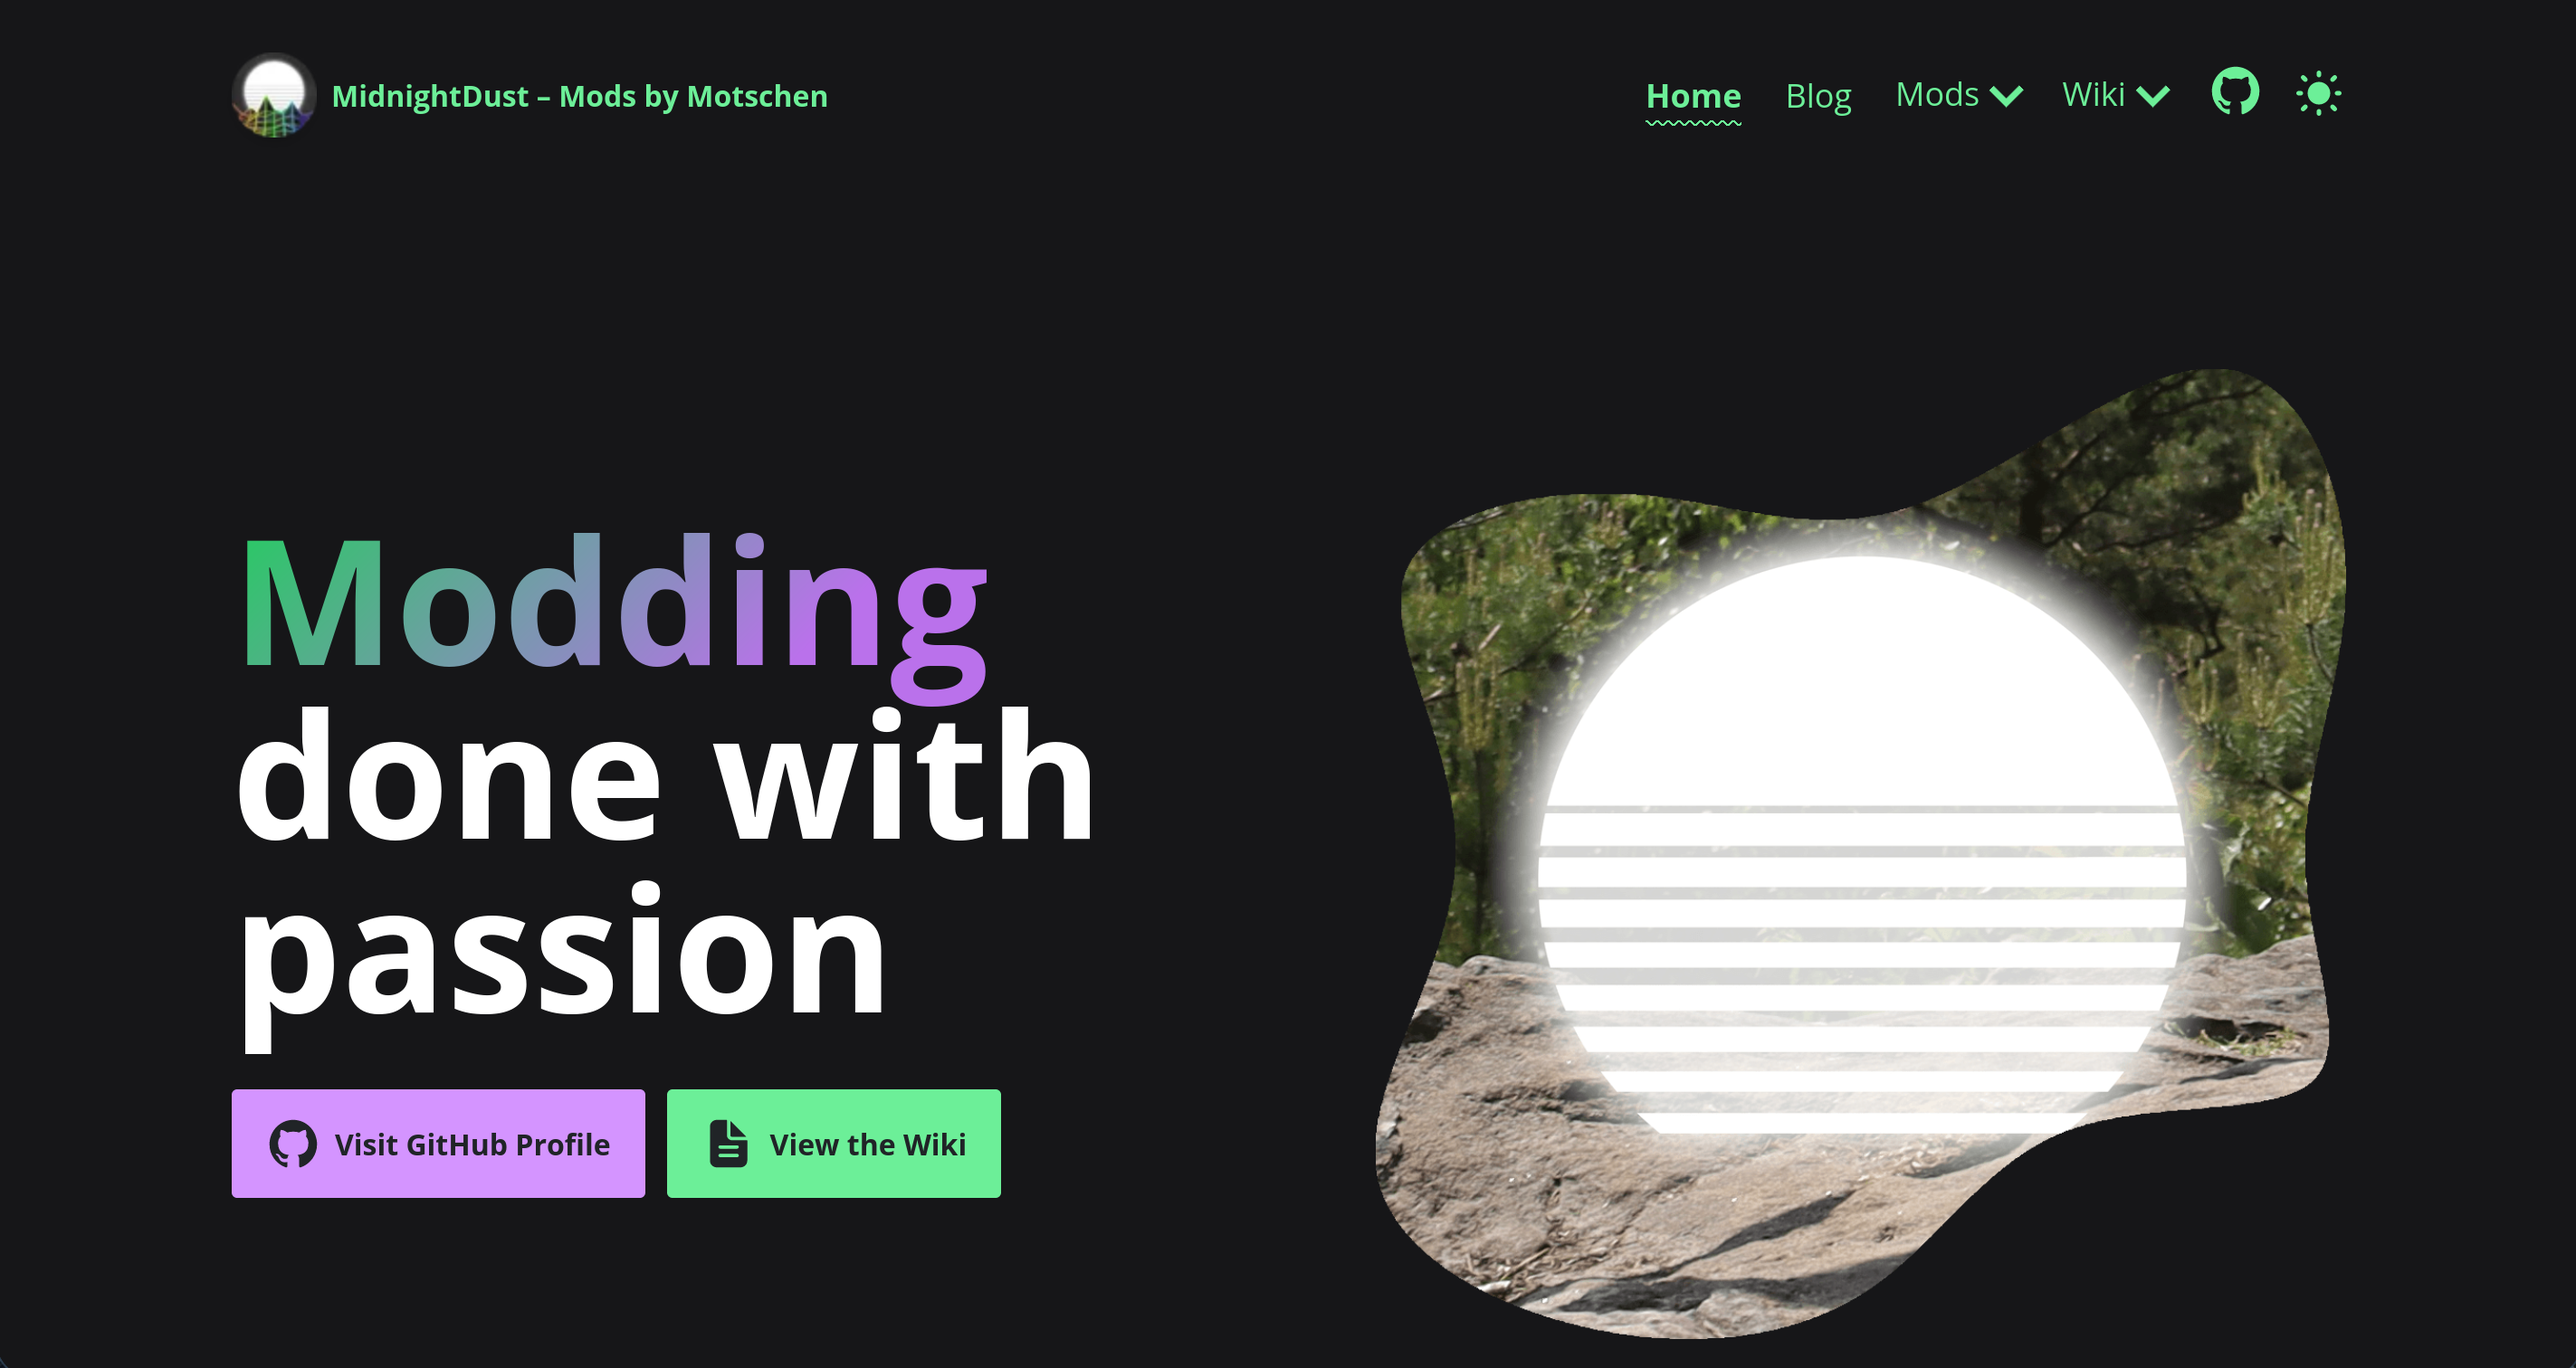
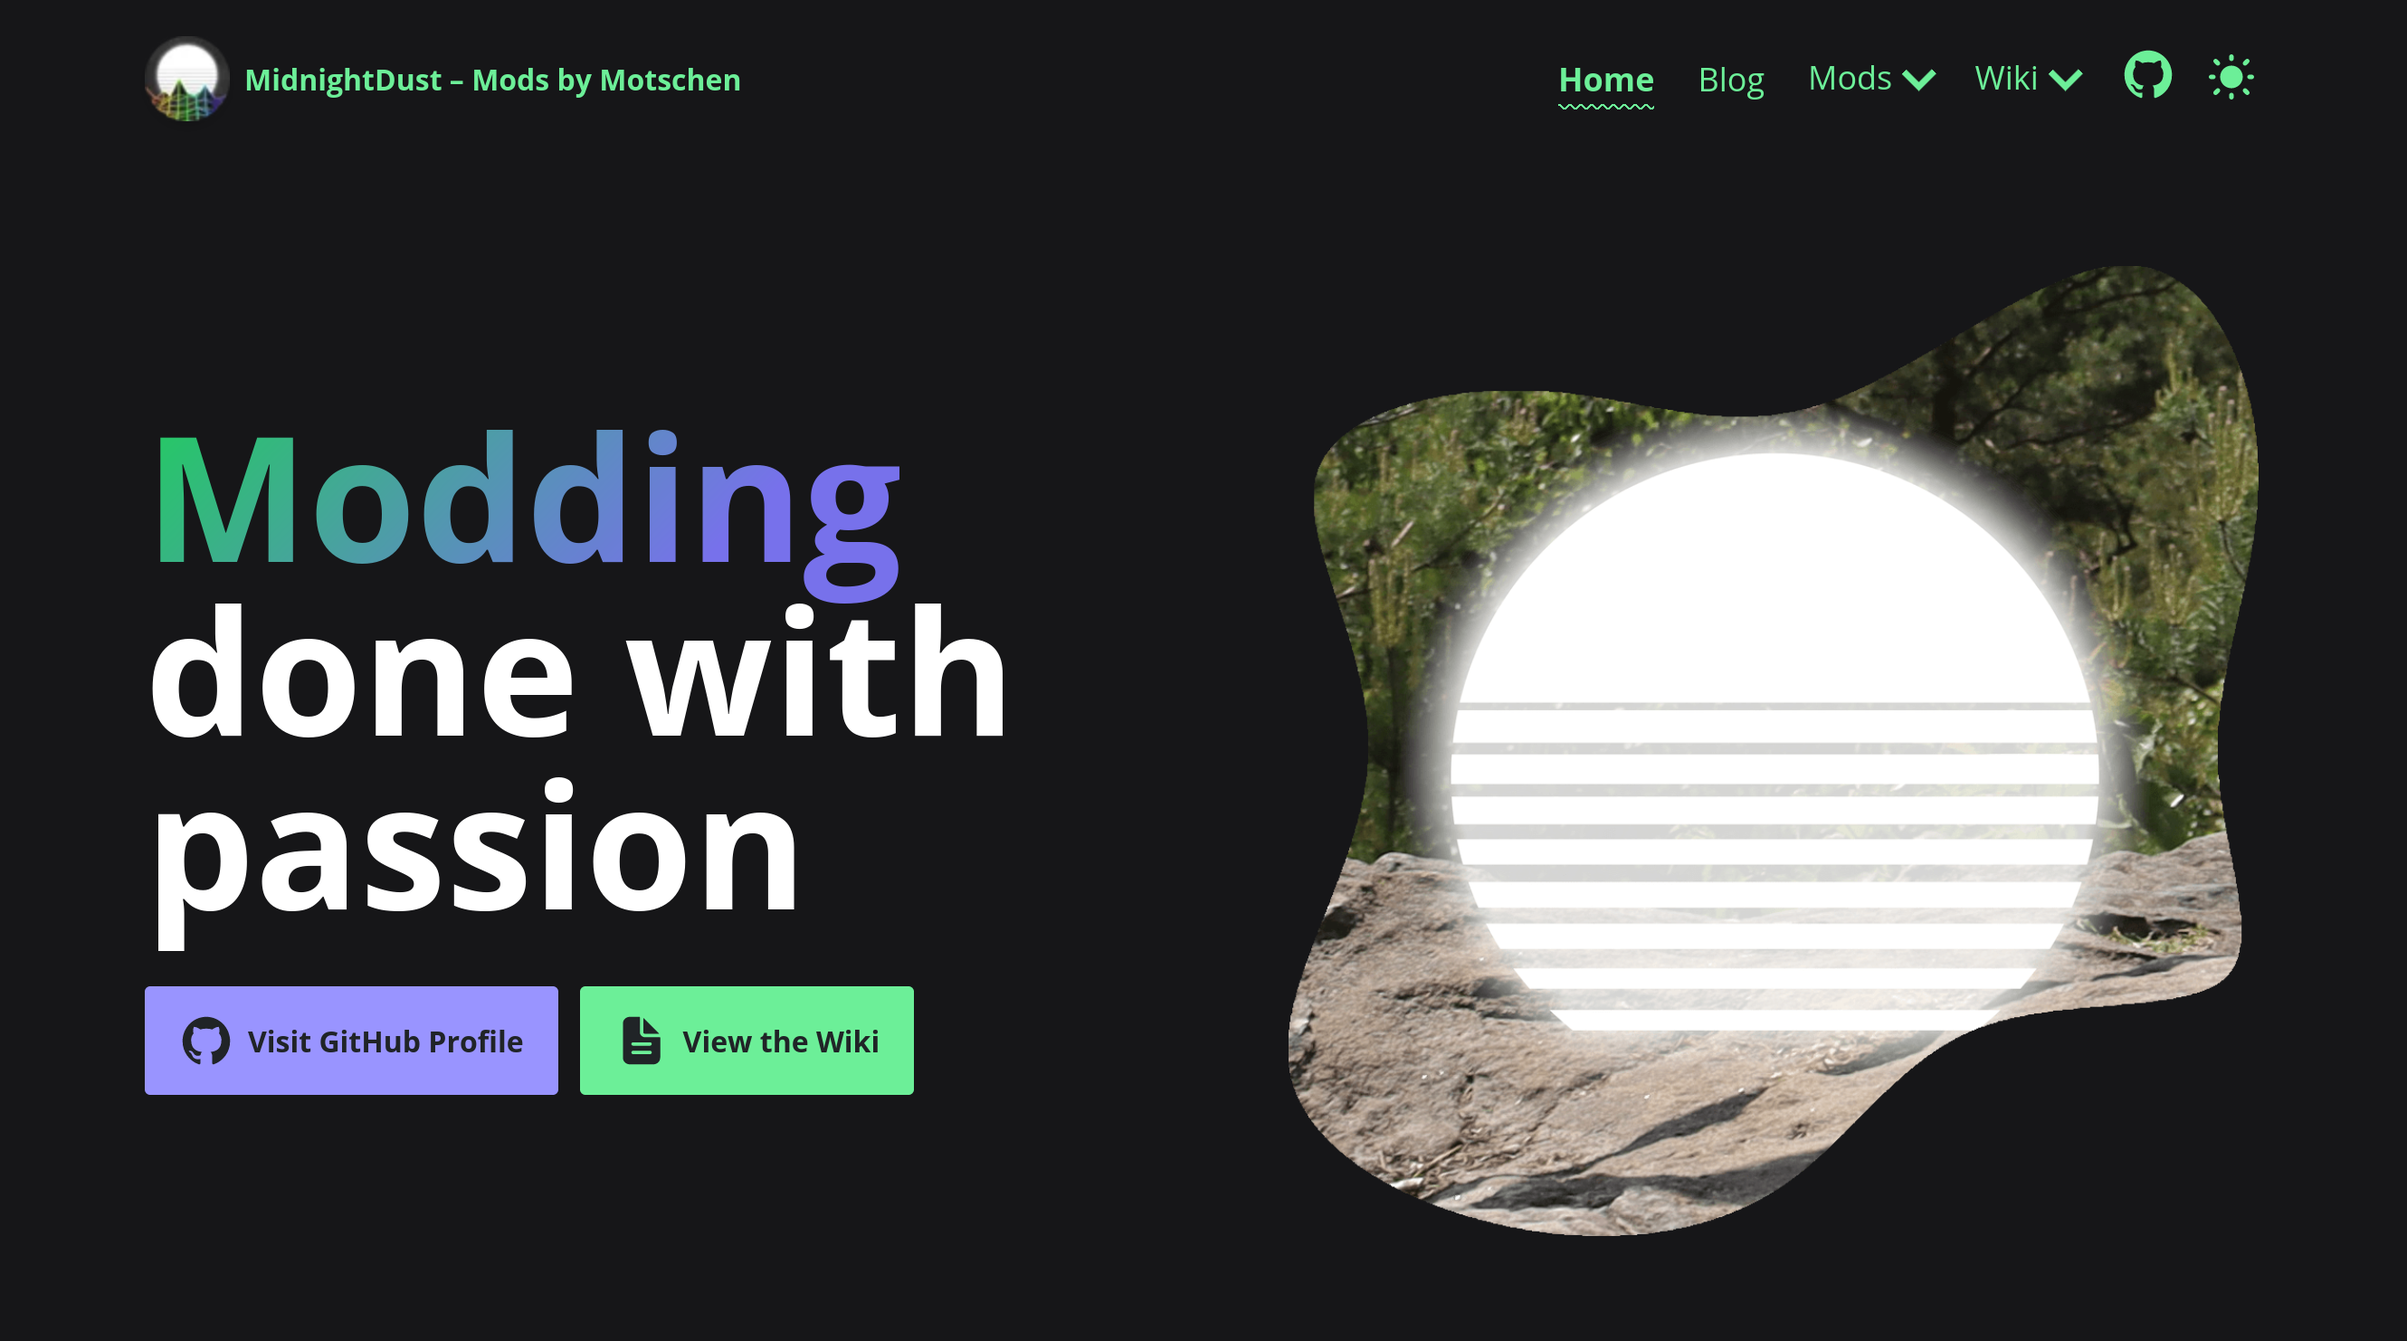
Ready for publishing

diff --git a/src/assets/scss/base/_color.scss b/src/assets/scss/base/_color.scss
@@ -4,11 +4,11 @@
 
 $colors: (
   primary: (
-    100: hsl(276, 100%, 79%),
-    200: hsl(276, 79%, 69%),
-    300: hsl(276, 53%, 49%),
-    400: hsl(276, 64%, 48%),
-    500: hsl(276, 96%, 20%),
+    100: hsl(243, 100%, 79%),
+    200: hsl(243, 79%, 69%),
+    300: hsl(243, 53%, 49%),
+    400: hsl(243, 64%, 48%),
+    500: hsl(243, 96%, 20%),
   ),
   secondary: (
     100: hsl(140, 80%, 68%),

diff --git a/README.md b/README.md
@@ -1,65 +1,1 @@
-# Accessible Astro Starter
-
-![social-preview-image](https://user-images.githubusercontent.com/3909046/219942674-9894853e-def8-4180-84b8-6b577dacfcaa.png)
-
-Accessible Astro Starter is a ready to use, SEO and a11y friendly blogging theme. It contains plenty of accessible components to build several page types, Tailwind CSS to help you build faster and example pages such as a dynamic Blog, 404, Markdown and MDX. This theme is designed to help you build your project faster and provide a solid base for accessibility!
-
-🚀 [Live Preview](https://accessible-astro.netlify.app/)
-
-## ♿ (Accessibility) Features
-
-- Astro 4.0
-- Tailwind CSS support
-- Prettier integration with `prettier-plugin-astro` and `prettier-plugin-tailwind`
-- ESLint integration with strict accessibility settings for `eslint-plugin-jsx-a11y`
-- Markdown and MDX support with examples included in the theme
-- Uses the awesome `astro-icon` package for the icons
-- Excellent Lighthouse/PageSpeed scores
-- Accessible landmarks such as `header`, `main`, `footer`, `section` and `nav`
-- Outline focus indicator which works on dark and light backgrounds
-- Several `aria` attributes which provide a better experience for screen reader users
-- `[...page].astro` and `[post].astro` demonstrate the use of dynamic routes and provide a basic blog with breadcrumbs and pagination
-- `404.astro` provides a custom 404 error page which you can adjust to your needs
-- `Header.astro` component included in the `DefaultLayout.astro` layout
-- `Footer.astro` component included in the `DefaultLayout.astro` layout
-- `SkipLinks.astro` component to skip to either the main menu or the main content
-- `Navigation.astro` component with keyboard accessible (dropdown) navigation (arrow keys, escape key)
-- `ResponsiveToggle.astro` component with an accessible responsive toggle button for the mobile navigation
-- `DarkMode.astro` component toggle with accessible button and a user system preferred color scheme setting
-- `SiteMeta.astro` SEO component for setting custom meta data on different pages
-- `.sr-only` utility class for screen reader only text content (hides text visually)
-- `prefers-reduced-motion` disables animations for users that have this preference turned on
-- Ships with many components such as Accordions, Breadcrumbs, Modals, Pagination [and many more](https://accessible-astro.dev/accessible-components)
-- A collection of utility classes such as breakpoints, button classes, font settings, resets and outlines in `src/assets/scss/base`
-- View Transitions (⚠ see [astro-docs](https://docs.astro.build/en/guides/view-transitions/#accessibility) for accessibility considerations)
-
-## 🚀 Getting started
-
-Clone this theme locally and run any of the following commands in your terminal:
-
-| Command           | Action                                       |
-| :---------------- | :------------------------------------------- |
-| `npm install`     | Installs dependencies                        |
-| `npm run dev`     | Starts local dev server at `localhost:4321`  |
-| `npm run build`   | Build your production site to `./dist/`      |
-| `npm run preview` | Preview your build locally, before deploying |
-
-## 📦 Other Accessible Astro projects
-
-- [Accessible Astro Dashboard](https://github.com/markteekman/accessible-astro-dashboard/)
-- [Accessible Astro Components](https://github.com/markteekman/accessible-astro-components/)
-
-## ❤ Helping out
-
-If you find that something isn't working right then I'm always happy to hear it to improve this starter! You can contribute in many ways and forms. Let me know by either:
-
-1. [Filing an issue](https://github.com/markteekman/accessible-astro-starter/issues)
-2. [Submitting a pull request](https://github.com/markteekman/accessible-astro-starter/pulls)
-3. [Starting a discussion](https://github.com/markteekman/accessible-astro-starter/discussions)
-4. [Buying me a coffee!](https://www.buymeacoffee.com/markteekman)
-
-## ☕ Thank you!
-
-A big thank you to the creators of the awesome Astro static site generator and to all using this starter to make the web a bit more accessible for all people around the world :)
-
-[![buymeacoffee-button](https://user-images.githubusercontent.com/3909046/150683481-be070424-7bb0-4dd7-a3cb-43b5605163f5.png)](https://www.buymeacoffee.com/markteekman)
+# New Website for Motschen's Projects
